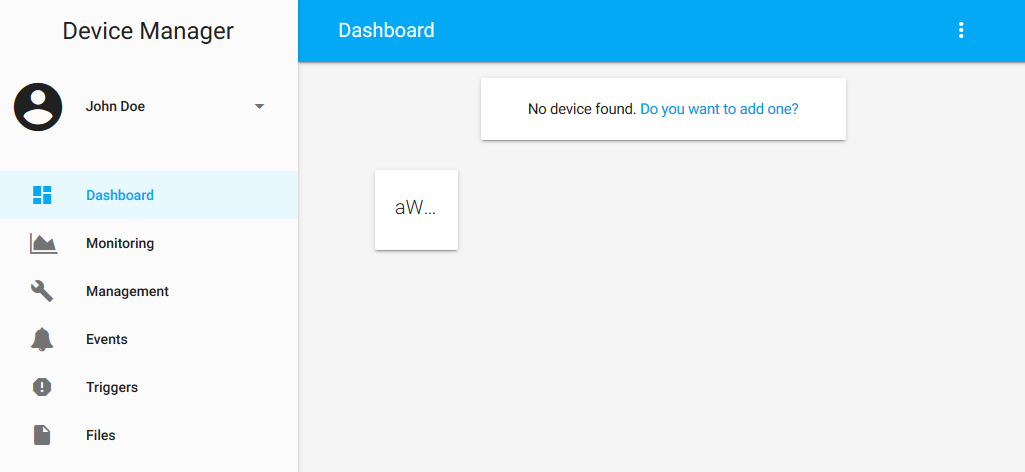
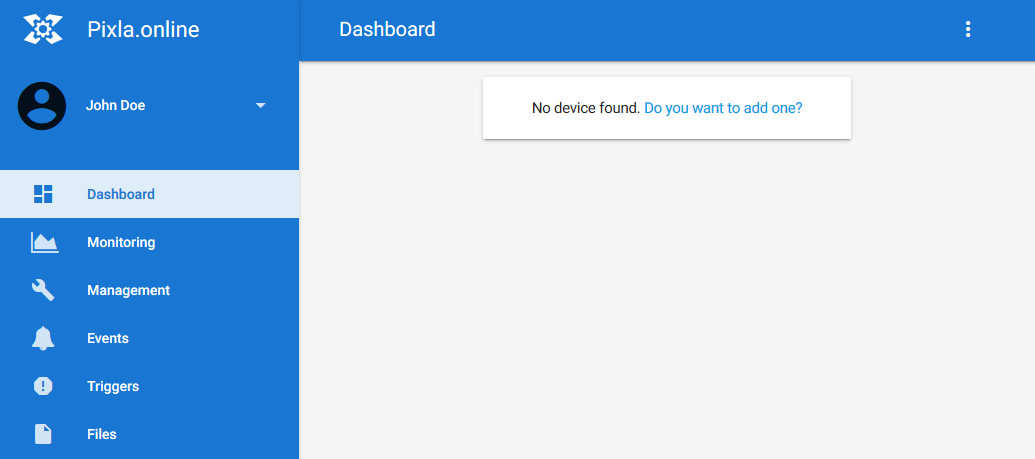
Change product name to PIXLA

diff --git a/extensions/rehivetech.com/README.md b/extensions/rehivetech.com/README.md
@@ -1,13 +1,13 @@
 ![RehiveTech](/extensions/rehivetech.com/images/logo.png)
 
-RehiveTech Management System is an ecosystem used for remote monitoring and maintainance of IoT gateways and embedded devices in general. Gateway with the client software installed reports required data to the cloud and allows to monitor not only itself but also the elements of sensor network that are connected to the device. IQRF wireless technology is also supported and offers an advanced management of IQRF nodes. The solution enables operators to address most of the necessary operating interventions remotely using web interface available for any type of device (computer, tablet or smartphone). This works not only for one gateway but the system is primarily designed for management of group of devices (e.g. in case of the need to update multiple devices simultaneously).
+PIXLA from RehiveTech is an ecosystem used for remote monitoring and maintenance of IoT Gateways or all Linux based devices in general. Such device with the PIXLA client software installed reports user specified data securely to the PIXLA cloud. All measured data are then available via PIXLA web interface (www.pixla.online) from computer, tablet or even smartphone. Moreover, the solution enables operators to address most of the necessary operating interventions remotely via the same web interface.
  
 # Installation
  
 The key point is in installing the client side software on the device running OS Linux system. Installation is performed via a prepared installation package. For installation please do follow the instructions bellow.
 
 #### Step 1
-Create your own user ancount at the management website [registration page](https://management.rehivetech.com/en/sign/up/).
+Create your own user ancount at the management website [registration page](https://www.pixla.online/en/sign/up/).
 
 ![Registration](/extensions/rehivetech.com/images/registration.png)
 
@@ -22,7 +22,7 @@ Each registered gateway is identified by an unique identifier called **token** t
 ![Add-command](/extensions/rehivetech.com/images/adding_device.png)
 
 ### Step 4
-Check if everything is correct and device is posting data into the managament system. You should see the device active in the [monitoring](https://management.rehivetech.com/en/monitoring/) section and should be also able to run an action from the [management](https://management.rehivetech.com/en/management/) section.
+Check if everything is correct and device is posting data into the managament system. You should see the device active in the [monitoring](https://www.pixla.online/en/monitoring/) section and should be also able to run an action from the [management](https://www.pixla.online/en/management/) section.
 
 ![Statistics](/extensions/rehivetech.com/images/statistics.png)
 
